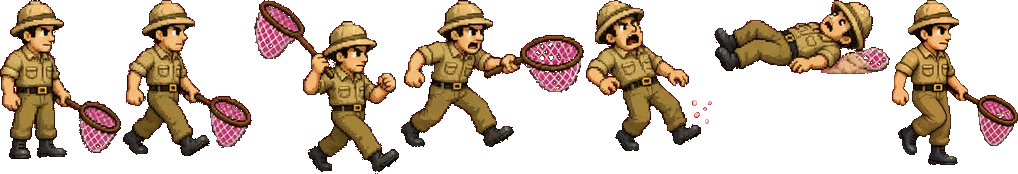
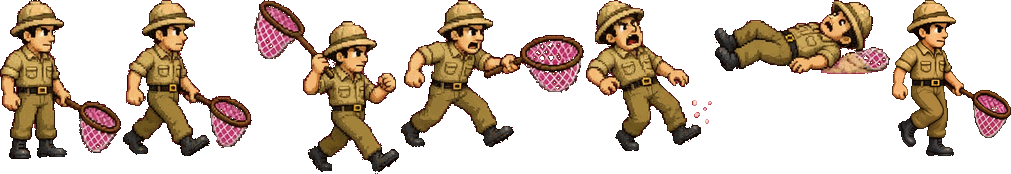
Walk: stop the skipping look
- Passing pose is now exactly as tall as the stride it alternates with (was up to 5% taller: heads popped up 3-8 game px on every passing pose)
- Bob is down-only, 2 device px max, lowest just after the footfall, back to standing height through passing (no upward pop, no landing spike)
- Harambe: the painted passing pose (near leg swinging) only precedes the near-leg contact (frame 24); before the far-leg contact it put the same leg forward twice = step-hop
- Keep cop_baton contact2 source for reference (not used: same leg forward as the existing stride)

diff --git a/js/sprites.js b/js/sprites.js
@@ -46,13 +46,14 @@ function sprWhite(ctx, name, x, y) {
 export function shadow(ctx, x, y, w = 16) { ctx.fillStyle = 'rgba(0,0,0,.38)'; ctx.beginPath(); ctx.ellipse(Math.round(x), Math.round(y) + 1, w / 2, Math.max(2, w / 9), 0, 0, 7); ctx.fill(); }
 
 export const WALK_PX = 20 / 6; // ground distance (logic px) per walk frame: the stance foot slides back 60 device px (20 logic px) over 6 frames (tools/ai-art/build_walk.py)
-/** Body bob for one step, phase 0..1 with the footfall at 0: the torso is lowest just after the foot lands (squash) and
- * highest on the passing pose. Returns device px (+ = down). `amp` = peak offset, `k` = 0..1 blend (eases in from idle). */
+/** Body bob for one step, phase 0..1 with the footfall at 0. Down-only: the torso settles at most `amp` device px just after
+ * the foot lands (lowest at phase LOW, the frame after contact) and is back at standing height through the passing pose,
+ * never above it, so nothing pops up (an up-and-down bob plus a sharp landing dip read as skipping). Smooth cosine, no spike.
+ * `k` = 0..1 blend (eases in from idle). Returns device px (+ = down). */
+const LOW = 0.15;
 export function stepBob(ph, amp, k = 1) {
   ph = ((ph % 1) + 1) % 1;
-  const base = Math.cos(ph * Math.PI * 2) * amp; // +amp at contact, -amp at passing
-  const land = ph < 0.12 ? (1 - ph / 0.12) * amp * 0.6 : 0; // extra dip right on the footfall
-  return (base + land) * k;
+  return amp * (0.5 + 0.5 * Math.cos((ph - LOW) * Math.PI * 2)) * k;
 }
 /** Harambe's walk phase (0..12, contacts on 0 and 6) from ground distance travelled. */
 export const harambePhase = wd => ((wd / WALK_PX) % 12 + 12) % 12;
@@ -63,7 +64,7 @@ export function drawHarambe(ctx, s) {
   switch (state) {
     case 'walk': { // 12-frame two-step cycle (frames 0 and 6 are the contact poses); phase is driven by ground distance so the planted foot never slides
       anim = 'walk'; i = harambePhase(s.wd != null ? s.wd : t * 82);
-      bob = stepBob((i % 6) / 6, 3, s.ramp ?? 1); break; } // heavy gorilla: 3 device px dip on each footfall, eased in with the start-of-walk ramp
+      bob = stepBob((i % 6) / 6, 2, s.ramp ?? 1); break; } // settles 2 device px (under 1 game px) after each footfall, eased in with the start-of-walk ramp
     case 'atk': anim = 'atk' + Math.min(3, Math.max(1, s.combo || 1)); i = at < 0.3 ? 0 : at < 0.75 ? 1 : 2; break;
     case 'heavy': anim = 'heavy'; i = at < 0.3 ? 0 : at < 0.4 ? 1 : at < 0.68 ? 2 : 3; break;
     case 'jump': anim = 'jump'; i = vz > 70 ? 0 : vz > -40 ? 1 : 2; break;
@@ -73,7 +74,7 @@ export function drawHarambe(ctx, s) {
     case 'special': anim = 'special'; i = at < 0.25 ? 0 : at < 0.5 ? 1 : at < 0.7 ? 2 : at < 0.85 ? 1 : 3; break;
     default:
       if (s.stopT > 0 && s.stopFrom != null) { // walk -> idle: finish the step onto the next contact pose instead of snapping out mid-stride
-        const to = s.stopFrom < 6 ? 6 : 12, k = 1 - s.stopT / STOP_T; anim = 'walk'; i = (s.stopFrom + (to - s.stopFrom) * k) % 12; bob = stepBob((i % 6) / 6, 3, 1 - k); break; }
+        const to = s.stopFrom < 6 ? 6 : 12, k = 1 - s.stopT / STOP_T; anim = 'walk'; i = (s.stopFrom + (to - s.stopFrom) * k) % 12; bob = stepBob((i % 6) / 6, 2, 1 - k); break; }
       anim = 'idle'; i = (t * 3) % 4;
   }
   blitFrame(ctx, 'harambe', anim, i, x, y - z, face, flash, bob);
@@ -113,7 +114,7 @@ export function drawHuman(ctx, s) {
     case 'walk': case 'run': {
       if (s.moving === false) { anim = 'idle'; break; } // standing still in the walk/chase state (already at its slot): no treading in place
       const wd = s.wd != null ? s.wd : t * (state === 'run' ? 90 : 36), p = enemyWalkPose(type, wd, m.anims);
-      frame = p.frame; bob = stepBob(p.ph, type.startsWith('boss') ? 3 : 2); break; }
+      frame = p.frame; bob = stepBob(p.ph, 2); break; } // <= 1 game px
     case 'windup': anim = 'windup'; i = (t * 8) % m.anims.windup.length; break;
     case 'atk': anim = 'atk'; i = Math.min(m.anims.atk.length - 1, Math.floor(at * m.anims.atk.length)); break;
     case 'hurt': anim = 'hurt'; i = 0; break;

diff --git a/tests/logic.test.js b/tests/logic.test.js
@@ -103,11 +103,11 @@ test('difficulty ramps stage by stage and the roster matches the theme', () => {
   assert.ok(Object.values(ENEMIES).some(e => e.kind === 'ranged' && e.proj === 'net') && Object.values(ENEMIES).some(e => e.proj === 'dart') && Object.values(ENEMIES).some(e => e.proj === 'bolt'), 'nets, darts and bolts');
   assert.equal(BOSSES.boss_baron.name, 'THE BARON');
 });
-test('every walking character has one painted passing pose (anims.pass) that is foot-anchored and as tall as its stand frame', () => {
+test('every walking character has one painted passing pose (anims.pass) that is foot-anchored and as tall as the stride it alternates with', () => {
   const atlas = JSON.parse(fs.readFileSync(asset('atlas.json')));
   for (const [name, m] of Object.entries(atlas)) {
     if (!m.anims.pass) continue;
-    const f = m.frames[m.anims.pass[0]], ref = name === 'harambe' ? m.frames[24] : m.frames[0];
-    assert.equal(f.ay, f.h, name); assert.ok(f.h >= ref.h - 6 && f.h <= ref.h * 1.06 + 2, name + ' height ' + f.h + ' vs ' + ref.h);
+    const f = m.frames[m.anims.pass[0]], ref = name === 'harambe' ? m.frames[24] : m.frames[Math.max(...m.anims.walk)];
+    assert.equal(f.ay, f.h, name); assert.ok(Math.abs(f.h - ref.h) <= 3, name + ' passing pose must be as tall as the stride (head level, no pop): ' + f.h + ' vs ' + ref.h);
   }
 });

diff --git a/tests/story.test.js b/tests/story.test.js
@@ -37,8 +37,8 @@ test('typewriter and advance: first tap completes text, second advances, skip en
 test('walk cycle: 12-frame two-step cycle, one shared body pivot and ground line, loops seamlessly', () => {
   const a = JSON.parse(readFileSync(new URL('../assets/atlas.json', import.meta.url))).harambe;
   assert.equal(a.anims.walk.length, 12);
-  assert.ok(new Set(a.anims.walk).size >= 9, 'distinct walk frames'); // the painted passing pose is held for 2 of the 12 phases on each leg
-  assert.ok(a.anims.pass && a.anims.walk.filter(i => i === a.anims.pass[0]).length === 4, 'painted passing pose used once per step (2 phases each)');
+  assert.ok(new Set(a.anims.walk).size >= 11, 'distinct walk frames'); // the painted passing pose is held for 2 of the 12 phases
+  assert.ok(a.anims.pass && a.anims.walk.filter(i => i === a.anims.pass[0]).length === 2 && a.anims.walk[8] === a.anims.pass[0], 'painted (near-leg) passing pose only on the step into frame 24, the near-leg contact');
   const f = a.anims.walk.map(i => a.frames[i]);
   // feet baseline: the sprite is anchored on the ground line, so each frame's anchor row must lie inside the frame and the cycle never changes scale
   for (const x of f) assert.ok(x.ay > 150 && x.ay <= x.h + 4, 'ay ' + x.ay + ' h ' + x.h);

diff --git a/tools/ai-art/build_walk_pass.py b/tools/ai-art/build_walk_pass.py
@@ -48,15 +48,12 @@ def build_frame(name, m, sheet):
     (x0, y0, x1, y1), mask = max(comps, key=lambda c: c[1].sum())
     rgba = to_rgba(src, mask)[y0:y1, x0:x1]
     im = Image.fromarray(rgba, 'RGBA')
-    if name == 'harambe': th = int(np.median([m['frames'][i]['h'] for i in range(24, 36)]))
-    else: th = m['frames'][0]['h']
-    # The generated poses have slightly longer legs than the sheet art, so a pure height match leaves the head/shoulders ~7% small.
-    # Split the difference: grow by half the head-width shortfall (capped at 5%), which also gives the passing pose its natural lift.
-    ref_i = 24 if name == 'harambe' else 0
-    def head_w(al): h = al.shape[0]; return float(np.median([al[y].sum() for y in range(int(h * .04), int(h * .14))]))
-    t0 = im.resize((max(1, int(round(im.width * th / im.height))), th), Image.LANCZOS)
-    ratio = head_w(np.array(t0)[..., 3] > 128) / head_w(np.array(crop(sheet, m['frames'][ref_i]))[..., 3] > 40)
-    th = int(round(th * min(1.05, max(1.0, 1 + (1 / ratio - 1) * 0.5)) * SCALE_FIX.get(name, 1.0)))
+    # Height = the stride frame it alternates with (Harambe: median of his walk frames), so the head stays level between
+    # contact and passing. (An earlier version grew the pose to compensate for the smaller generated heads; together with the
+    # bob that popped heads up 3-8 game px on every passing pose and read as skipping.)
+    stride_i = 24 if name == 'harambe' else max(m['anims']['walk'])
+    th = int(np.median([m['frames'][i]['h'] for i in range(24, 36)])) if name == 'harambe' else m['frames'][stride_i]['h']
+    th = int(round(th * SCALE_FIX.get(name, 1.0)))
     tw = max(1, int(round(im.width * th / im.height)))
     # premultiplied resize so transparent magenta never bleeds into the edge colours
     a = np.array(im).astype(float); a[..., :3] *= a[..., 3:4] / 255
@@ -69,7 +66,6 @@ def build_frame(name, m, sheet):
     # trim to content (keeps ay == h on the feet)
     bb = fr.getbbox(); fr = fr.crop(bb)
     # pivot: same upper-body offset as the stride frame this pose alternates with
-    stride_i = m['anims']['walk'][0] if name == 'harambe' else max(m['anims']['walk'])
     sf = m['frames'][stride_i]; sal = np.array(crop(sheet, sf))[..., 3] > 40
     off = sf['ax'] - chest_x(sal)
     nal = np.array(fr)[..., 3] > 40
@@ -84,7 +80,7 @@ def build_frame(name, m, sheet):
 
 def main(names):
     meta = json.load(open(META))
-    for name in names or sorted(f[:-4] for f in os.listdir(SRC) if f.endswith('.jpg')):
+    for name in names or sorted(f[:-4] for f in os.listdir(SRC) if f.endswith('.jpg') and '__' not in f):
         m = meta[name]; path = os.path.join(ROOT, 'assets', m['img'])
         sheet = Image.open(path).convert('RGBA')
         if 'pass' in m['anims']:  # idempotent: drop the previous pass frame (always the last frame, at the right edge)
@@ -98,9 +94,11 @@ def main(names):
         ns = Image.new('RGBA', (W, H), (0, 0, 0, 0)); ns.paste(sheet, (0, 0)); ns.paste(fr, (sheet.width + 2, 0))
         m['frames'].append({'x': sheet.width + 2, 'y': 0, 'w': fr.width, 'h': fr.height, 'ax': ax, 'ay': fr.height})
         m['anims']['pass'] = [len(m['frames']) - 1]
-        if name == 'harambe':  # contact, down, PASSING, up for each leg: the new pose replaces the blobby rebuilt passing frames 27/28 and 32/33
+        if name == 'harambe':  # contact, down, PASSING, up. The painted pose has the NEAR leg swinging forward, so it may only replace the
+            # passing frames that lead into frame 24 (near leg forward): 32/33. Using it before frame 30 (far leg forward) too put the same
+            # leg forward twice in a row = a step-hop. 27/28 (far leg swinging) stay until a far-leg passing pose is painted.
             P = m['anims']['pass'][0]; base = list(range(24, 36))
-            m['anims']['walk'] = [P if j in (3, 4, 8, 9) else base[j] for j in range(12)]
+            m['anims']['walk'] = [P if j in (8, 9) else base[j] for j in range(12)]
         ns.save(path, optimize=True)
         print(f"{name}: pass frame {fr.width}x{fr.height} ax {ax} -> index {m['anims']['pass'][0]}")
     with open(META, 'w') as fh: json.dump(meta, fh, separators=(',', ':'))
